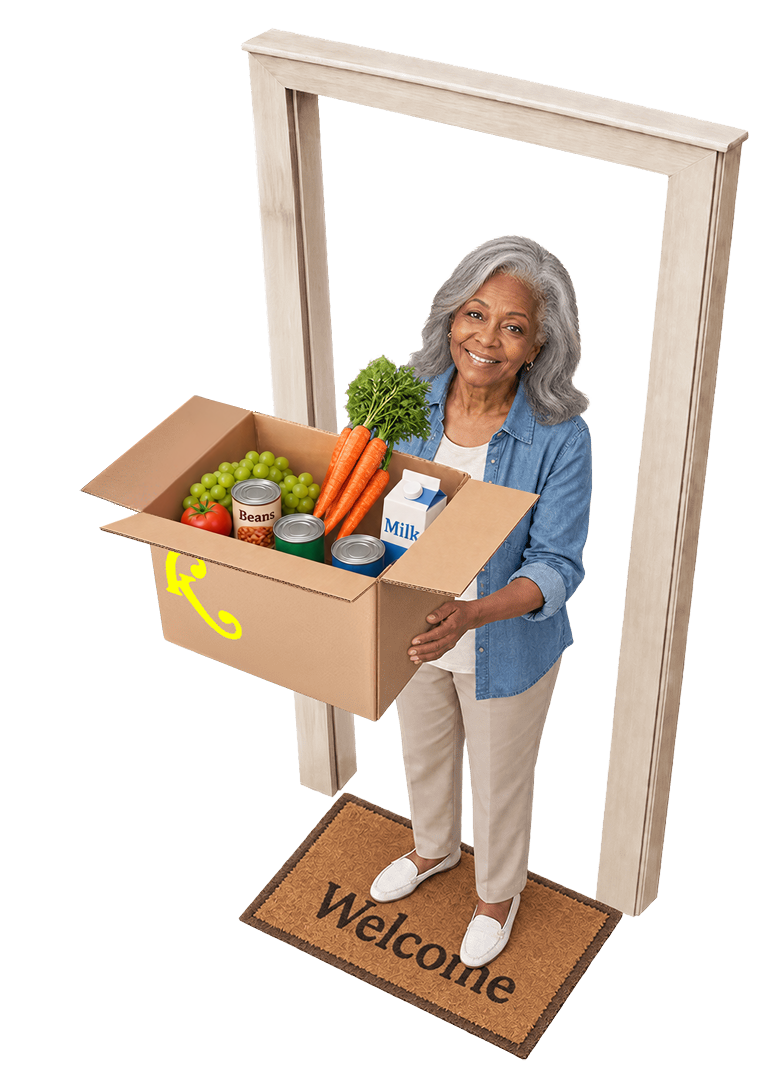
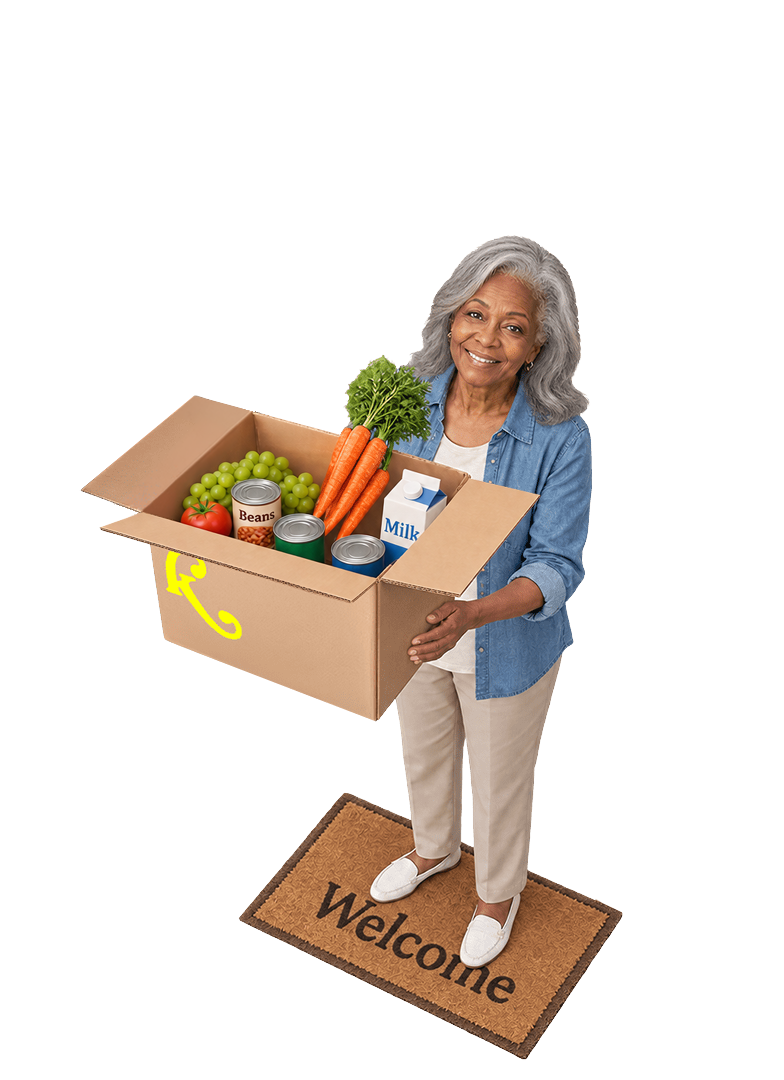
/bronx art without the doorframe, native scrolling, bigger pop-up text
- /bronx: the back layer of the hero illustration no longer has the
  doorframe, so the art is drawn larger: 15% on phones (growing up from
  the doormat), 6% side by side with the copy (boxed in by the headline
  and the partner links).
- Pages other than home, Our Story and Our Impact scroll natively: the
  eased mouse wheel is gone; ScrollProgress keeps the nav's progress line.
- Homepage pill pop-ups: body text a size up (20px phones, 24px wider),
  column widened to keep the line length.

Changed region(s): [[0.3061, 0.0306, 0.949, 0.8556], [0.3673, 0.6417, 0.4592, 0.7333]]

diff --git a/components/nutrition-box/Illustration.tsx b/components/nutrition-box/Illustration.tsx
@@ -25,8 +25,8 @@ type Float = {
   rot: string;
 };
 
-// Listed top to bottom: layer 1 is in front, layer 7 (the doorway) is at the back and
-// doesn't move.
+// Listed top to bottom: layer 1 is in front, layer 7 (the woman on her doormat) is at the
+// back and doesn't move.
 const LAYERS: { src: StaticImageData; float?: Float }[] = [
   { src: layer1, float: { origin: ['25.9%', '26.8%'], duration: 3.1, delay: -0.4, amp: '0.9%', rot: '3deg' } },
   { src: layer2, float: { origin: ['45.2%', '23.9%'], duration: 3.7, delay: -1.9, amp: '0.8%', rot: '2.5deg' } },
@@ -46,30 +46,32 @@ export default function Illustration({ className = '' }: { className?: string })
   const alt = useCopy(ALT);
   return (
     <div className={`relative aspect-[784/1080] ${className}`}>
-      {LAYERS.map(({ src, float }, i) => (
-        <Image
-          key={i}
-          src={src}
-          alt={float ? '' : alt}
-          aria-hidden={float ? true : undefined}
-          priority
-          className={`${styles.layer} ${float ? styles.float : ''}`}
-          style={
-            {
-              zIndex: LAYERS.length - i,
-              ...(float && {
-                '--ox': float.origin[0],
-                '--oy': float.origin[1],
-                '--dur': `${float.duration}s`,
-                '--delay': `${float.delay}s`,
-                '--amp': float.amp,
-                '--rot': float.rot,
-              }),
-            } as CSSProperties
-          }
-          sizes="(min-width: 768px) 50vw, 60vw"
-        />
-      ))}
+      <div className={styles.stage}>
+        {LAYERS.map(({ src, float }, i) => (
+          <Image
+            key={i}
+            src={src}
+            alt={float ? '' : alt}
+            aria-hidden={float ? true : undefined}
+            priority
+            className={`${styles.layer} ${float ? styles.float : ''}`}
+            style={
+              {
+                zIndex: LAYERS.length - i,
+                ...(float && {
+                  '--ox': float.origin[0],
+                  '--oy': float.origin[1],
+                  '--dur': `${float.duration}s`,
+                  '--delay': `${float.delay}s`,
+                  '--amp': float.amp,
+                  '--rot': float.rot,
+                }),
+              } as CSSProperties
+            }
+            sizes="(min-width: 768px) 50vw, 60vw"
+          />
+        ))}
+      </div>
     </div>
   );
 }

diff --git a/components/Modal.tsx b/components/Modal.tsx
@@ -16,7 +16,7 @@ type OverlayContent = {
 const ptComponents: PortableTextComponents = {
   block: {
     normal: ({ children }) => (
-      <p className="mt-5 text-base leading-relaxed text-[#ff6666] first:mt-0 sm:text-lg">
+      <p className="mt-5 text-xl leading-relaxed text-[#ff6666] first:mt-0 sm:text-2xl">
         {children}
       </p>
     ),
@@ -24,12 +24,12 @@ const ptComponents: PortableTextComponents = {
   // Tailwind's preflight removes list markers/indent, so restore them + the red color.
   list: {
     bullet: ({ children }) => (
-      <ul className="mt-5 list-disc space-y-2 pl-6 text-left text-base leading-relaxed text-[#ff6666] marker:text-[#ff6666] first:mt-0 sm:text-lg">
+      <ul className="mt-5 list-disc space-y-2 pl-6 text-left text-xl leading-relaxed text-[#ff6666] marker:text-[#ff6666] first:mt-0 sm:text-2xl">
         {children}
       </ul>
     ),
     number: ({ children }) => (
-      <ol className="mt-5 list-decimal space-y-2 pl-6 text-left text-base leading-relaxed text-[#ff6666] marker:text-[#ff6666] first:mt-0 sm:text-lg">
+      <ol className="mt-5 list-decimal space-y-2 pl-6 text-left text-xl leading-relaxed text-[#ff6666] marker:text-[#ff6666] first:mt-0 sm:text-2xl">
         {children}
       </ol>
     ),
@@ -131,7 +131,7 @@ export default function Modal() {
       </button>
 
       <div className="flex min-h-full items-center justify-center p-8 sm:p-12">
-        <div className="max-w-2xl text-center">
+        <div className="max-w-3xl text-center">
           {title && (
             <h2 className="font-spirit text-3xl font-medium text-white sm:text-4xl">{title}</h2>
           )}

diff --git a/components/ScrollProgress.tsx b/components/ScrollProgress.tsx
@@ -1,0 +1,40 @@
+'use client';
+
+import { useEffect } from 'react';
+import { usePathname } from 'next/navigation';
+
+/**
+ * Fills the nav's scroll-progress rule on the ordinary scrolling pages, which scroll
+ * natively. (These pages used to ease the mouse wheel to match Our Story's glide; dropped
+ * in November 2026 for the browser's own scrolling.)
+ */
+
+/** Not here: pages that don't scroll, or fill the rule themselves (the homepage's 3D
+ *  camera, the Our Impact slider, Our Story's SmoothScroll). */
+const SKIP = new Set(['/', '/our-impact', '/our-story']);
+
+export default function ScrollProgress() {
+  const pathname = usePathname();
+  const skip = SKIP.has(pathname);
+
+  useEffect(() => {
+    if (skip) return;
+    const progress = document.getElementById('scroll-progress');
+    if (!progress) return;
+    const setProgress = () => {
+      const max = Math.max(0, document.documentElement.scrollHeight - window.innerHeight);
+      progress.style.transform = `scaleX(${max > 0 ? Math.min(window.scrollY / max, 1) : 0})`;
+    };
+
+    setProgress();
+    window.addEventListener('scroll', setProgress, { passive: true });
+    window.addEventListener('resize', setProgress);
+    return () => {
+      window.removeEventListener('scroll', setProgress);
+      window.removeEventListener('resize', setProgress);
+      progress.style.transform = 'scaleX(0)';
+    };
+  }, [skip, pathname]);
+
+  return null;
+}

diff --git a/app/(site)/layout.tsx b/app/(site)/layout.tsx
@@ -4,7 +4,7 @@ import { client } from '@/sanity/lib/client';
 import { buildNav, NAV_QUERY, type NavMenu, type NavPage } from '@/lib/nav';
 import Nav from '@/components/Nav';
 import SiteFooter from '@/components/SiteFooter';
-import SmoothWheel from '@/components/SmoothWheel';
+import ScrollProgress from '@/components/ScrollProgress';
 import KaiWidget from '@/components/kai/KaiWidget';
 import GradientBackground from '@/components/GradientBackground';
 import GoogleAnalytics from '@/components/GoogleAnalytics';
@@ -90,8 +90,8 @@ export default async function RootLayout({ children }: { children: React.ReactNo
         <Nav menus={nav} />
         {children}
         <SiteFooter />
-        {/* Our Story's scroll feel on the other scrolling pages (mouse and trackpad). */}
-        <SmoothWheel />
+        {/* The nav's scroll-progress rule on the other scrolling pages. */}
+        <ScrollProgress />
         {/* Ask Kai — floating chatbot, on every page. */}
         <KaiWidget />
         <GoogleAnalytics />

diff --git a/components/nutrition-box/Illustration.module.css b/components/nutrition-box/Illustration.module.css
@@ -1,3 +1,22 @@
+/* Drawn a little larger than its box: with no doorframe (November 2026), the art fills
+   only the left three quarters of its 784x1080 frame. On phones it grows from the
+   doormat, up and right into the room the doorframe took. Side by side with the copy it's
+   boxed in by the headline above and the partner links below, so it grows only a little,
+   from its middle. */
+.stage {
+  position: absolute;
+  inset: 0;
+  transform: scale(1.15);
+  transform-origin: 45% 100%;
+}
+
+@media (orientation: landscape) {
+  .stage {
+    transform: scale(1.06);
+    transform-origin: 45% 55%;
+  }
+}
+
 .layer {
   position: absolute;
   inset: 0;

diff --git a/components/Nav.tsx b/components/Nav.tsx
@@ -114,7 +114,7 @@ export default function Nav({ menus }: { menus: NavMenu[] }) {
           Holds the certifications image (right edge matching the nav padding, so it sits
           under the Connect chevron). */}
       {/* Scroll progress: a rule along the very bottom of the screen, filled by
-          SmoothWheel / Our Story's SmoothScroll. (It used to run along the top bar,
+          ScrollProgress / Our Story's SmoothScroll. (It used to run along the top bar,
           through the logo.) The homepage has its own at the bottom (HomeProgress), where
           it becomes the sentence filling in, so it's omitted there. */}
       {pathname !== '/' && (
